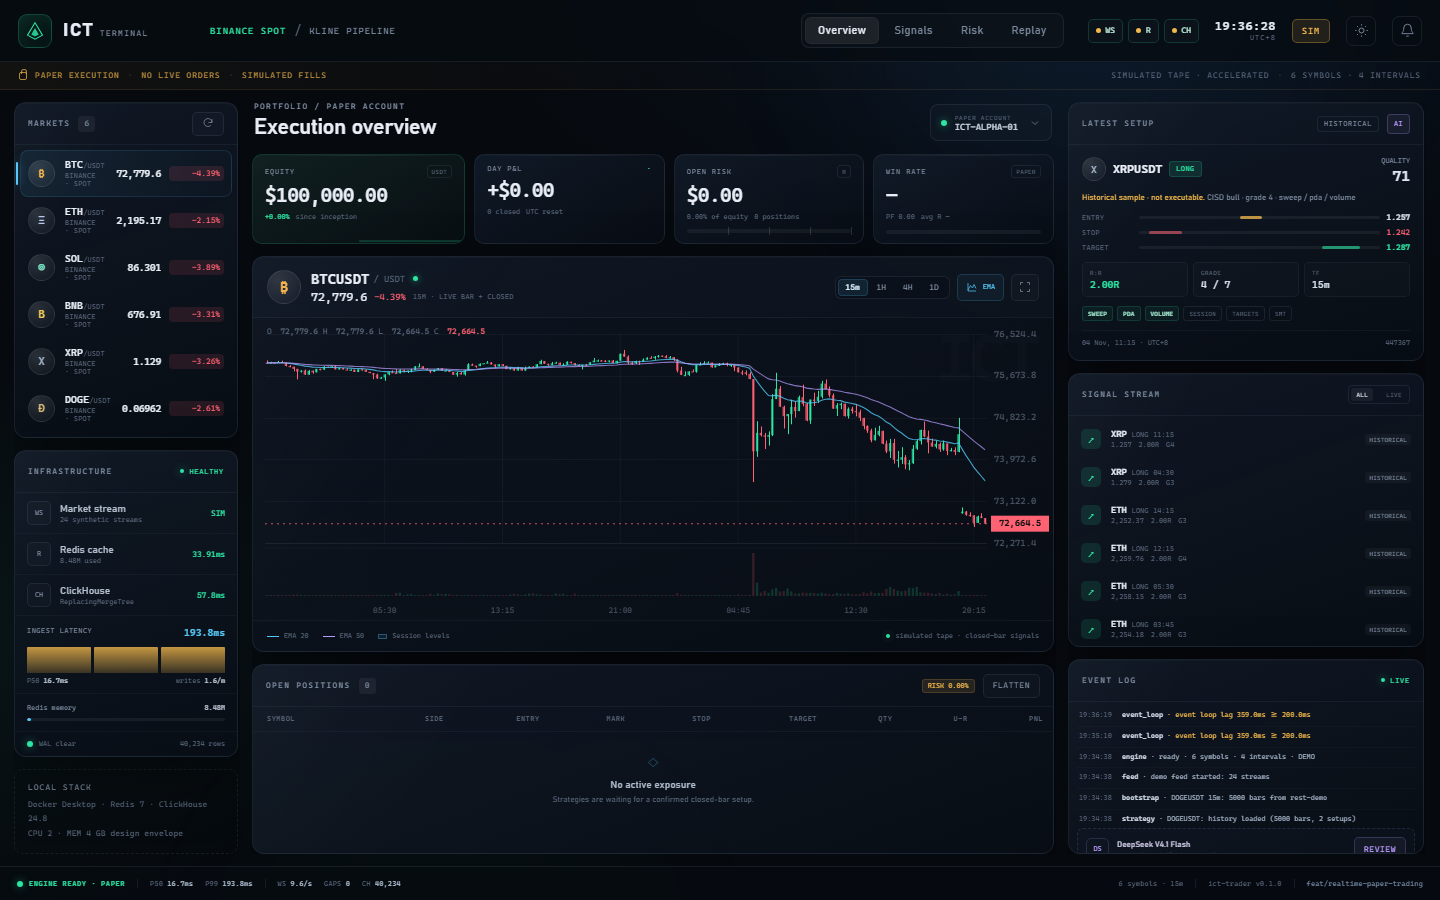
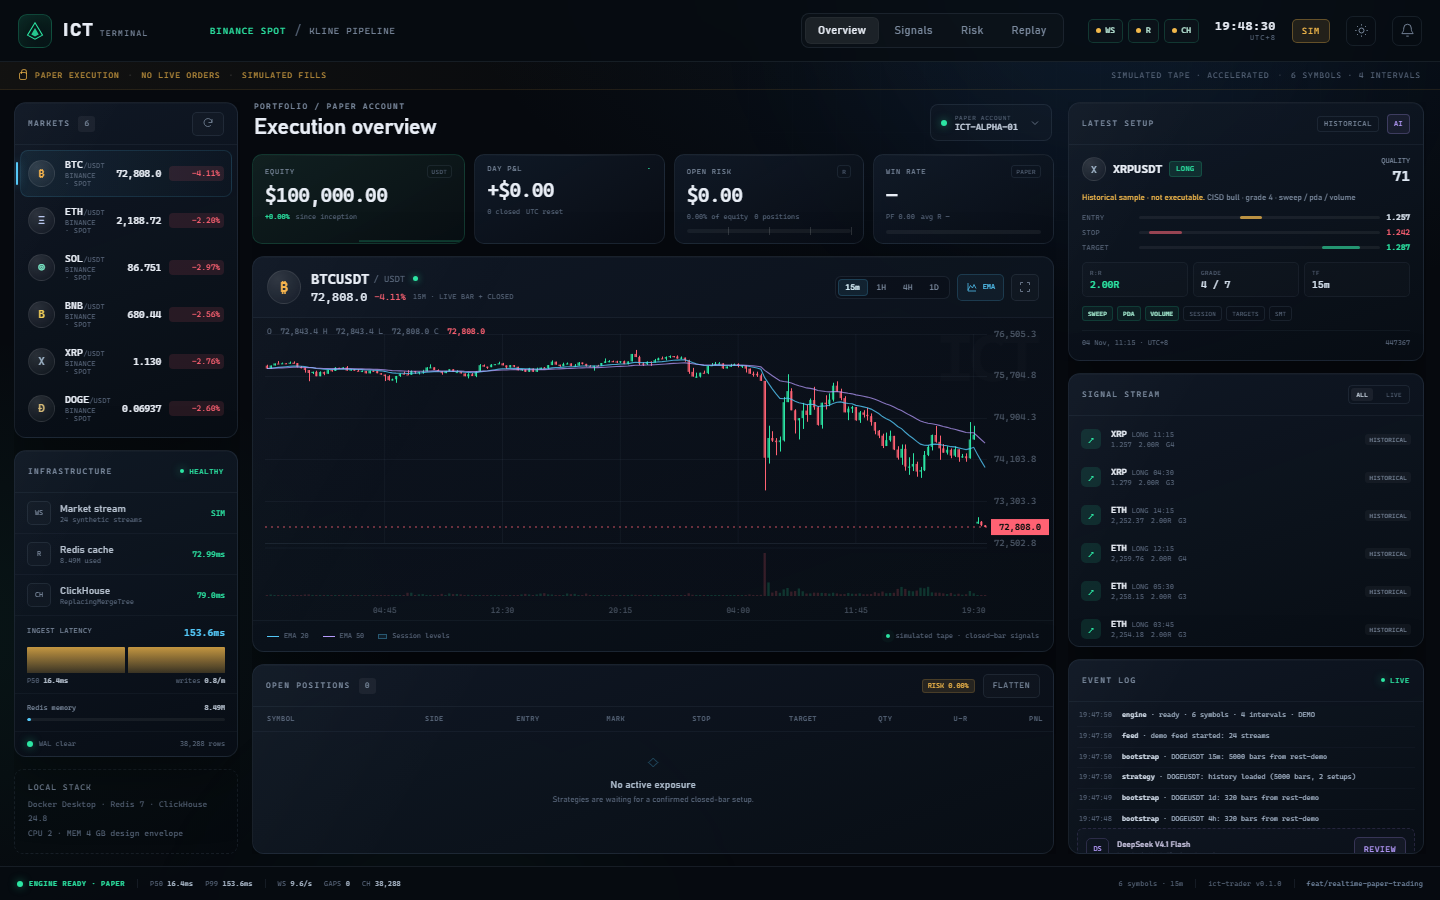
fix: unify live price across chart, watchlist and header

diff --git a/src/ict_trader/realtime/static/app.js b/src/ict_trader/realtime/static/app.js
@@ -620,7 +620,7 @@
       ? num(anchor.bar_time) + 70 * (TF_MS[S.tf] || 900000)
       : null;
     const url = `/api/klines?symbol=${encodeURIComponent(S.symbol)}&interval=${encodeURIComponent(S.tf)}&limit=220`
-      + (endTime ? `&end_time=${endTime}` : "");
+      + (endTime ? `&end_time=${endTime}` : "&include_live=true");
     try {
       const res = await fetch(url, { cache: "no-store" });
       if (!res.ok) throw new Error("HTTP " + res.status);

diff --git a/src/ict_trader/realtime/engine.py b/src/ict_trader/realtime/engine.py
@@ -580,7 +580,7 @@ class RealtimeEngine:
             "last_update": last_update,
             "strategy": self.runner.snapshot(),
             "signals": [s.to_public() for s in signals[:30]],
-            "watchlist": self.runner.watchlist(),
+            "watchlist": self.runner.watchlist(self.latest_bars),
             "live_bars": [bar.to_public() for bar in self.latest_bars.values()],
             "account": broker["account"],
             "positions": broker["positions"],
@@ -603,21 +603,40 @@ class RealtimeEngine:
         return closed
 
     async def klines(self, symbol: str, interval: str, limit: int = 240,
-                     end_time: int | None = None) -> list[dict[str, Any]]:
+                     end_time: int | None = None,
+                     include_live: bool = False) -> list[dict[str, Any]]:
         limit = max(20, min(int(limit), 2000))
         symbol = symbol.upper()
         if interval == self.settings.strategy_interval:
             rows = self.runner.public_klines(symbol, limit, end_time)
+            rows = self._with_live(symbol, interval, rows, limit, end_time, include_live)
             if rows:
                 return rows
         try:
             bars = await self.redis.get_closed(symbol, interval, limit)
             if bars:
-                return [b.to_public() for b in bars]
+                rows = [b.to_public() for b in bars]
+                return self._with_live(symbol, interval, rows, limit, end_time, include_live)
         except Exception:
             pass
         try:
             bars = await self.ch.load_recent(symbol, interval, limit)
-            return [b.to_public() for b in bars]
+            rows = [b.to_public() for b in bars]
+            return self._with_live(symbol, interval, rows, limit, end_time, include_live)
         except Exception:
             return []
+
+    def _with_live(self, symbol: str, interval: str, rows: list[dict[str, Any]],
+                   limit: int, end_time: int | None,
+                   include_live: bool) -> list[dict[str, Any]]:
+        if not include_live or end_time is not None:
+            return rows
+        live = self.latest_bars.get((symbol, interval))
+        if live is None:
+            return rows
+        if rows and int(live.open_time) == int(rows[-1]["open_time"]):
+            rows[-1] = live.to_public()
+        elif not rows or int(live.open_time) > int(rows[-1]["open_time"]):
+            rows.append(live.to_public())
+            rows = rows[-limit:]
+        return rows

diff --git a/src/ict_trader/realtime/strategy_runner.py b/src/ict_trader/realtime/strategy_runner.py
@@ -354,17 +354,31 @@ class ICTStrategyRunner:
         bars = self.frame(symbol, limit, end_time)
         return [b.to_public() for b in bars]
 
-    def watchlist(self) -> list[dict[str, Any]]:
+    def watchlist(self, latest_bars: dict[tuple[str, str], Kline] | None = None) -> list[dict[str, Any]]:
+        """Return 24h context using the latest *live* 15m bar when available.
+
+        The chart already merges the unclosed bar; the watchlist and header must
+        use the same price source or the dashboard shows the previous close as
+        the "current" price.
+        """
         step = interval_ms(self.interval)
         day_bars = max(2, int(86_400_000 / step))
+        latest_bars = latest_bars or {}
         out = []
         for symbol in self.settings.symbols:
             bars = self.histories.get(symbol)
-            if not bars:
+            live = latest_bars.get((symbol, self.interval))
+            if not bars and live is None:
                 out.append({"symbol": symbol, "price": 0.0, "change_pct": 0.0,
-                            "spark": [], "high": 0.0, "low": 0.0})
+                            "spark": [], "high": 0.0, "low": 0.0, "is_live": False})
                 continue
-            arr = np.fromiter((b.close for b in bars), dtype=float)
+            closes = [b.close for b in bars] if bars else []
+            if live is not None:
+                if closes and live.open_time == bars[-1].open_time:
+                    closes[-1] = live.close
+                elif not closes or live.open_time > bars[-1].open_time:
+                    closes.append(live.close)
+            arr = np.asarray(closes, dtype=float)
             window = arr[-min(len(arr), day_bars):]
             change = (arr[-1] / arr[-len(window)] - 1.0) * 100.0 if len(window) > 1 and arr[-len(window)] else 0.0
             spark = arr[-64:].round(8).tolist()
@@ -375,6 +389,8 @@ class ICTStrategyRunner:
                 "spark": spark,
                 "high": round(float(window.max()), 8),
                 "low": round(float(window.min()), 8),
+                "is_live": bool(live is not None and not live.is_closed),
+                "live_time": int(live.open_time) if live is not None else None,
             })
         return out
 

diff --git a/src/ict_trader/realtime/api.py b/src/ict_trader/realtime/api.py
@@ -193,12 +193,13 @@ def create_app(engine: RealtimeEngine) -> FastAPI:
         interval: str | None = Query(None),
         limit: int = Query(240, ge=20, le=2000),
         end_time: int | None = Query(None, ge=0),
+        include_live: bool = Query(False),
     ) -> JSONResponse:
         iv = interval or engine.settings.strategy_interval
-        rows = await engine.klines(symbol, iv, limit, end_time)
+        rows = await engine.klines(symbol, iv, limit, end_time, include_live)
         return JSONResponse({
             "symbol": symbol.upper(), "interval": iv,
-            "end_time": end_time, "bars": rows,
+            "end_time": end_time, "include_live": include_live, "bars": rows,
         })
 
     @app.websocket("/ws")

diff --git a/tests/test_realtime_runner_adapter.py b/tests/test_realtime_runner_adapter.py
@@ -57,3 +57,12 @@ def test_runner_maps_engine_signal_to_trade_signal(tmp_path, monkeypatch):
     window = runner.frame("BTCUSDT", 240, end_time=last.open_time + 70 * 900_000)
     assert any(int(b.open_time) == signal.bar_time for b in window)
     assert window[-1].open_time == last.open_time
+
+    live = Kline(
+        symbol="BTCUSDT", interval="15m", open_time=last.open_time + 900_000,
+        close_time=last.close_time + 900_000, open=100.0, high=104.0,
+        low=99.0, close=103.25, volume=12.0, is_closed=False,
+    )
+    rows = runner.watchlist({("BTCUSDT", "15m"): live})
+    assert rows[0]["price"] == 103.25
+    assert rows[0]["is_live"] is True

diff --git a/tests/test_realtime_api.py b/tests/test_realtime_api.py
@@ -61,7 +61,7 @@ class FakeEngine:
     async def stop(self):
         self.phase = "stopped"
 
-    async def klines(self, symbol, interval, limit, end_time=None):
+    async def klines(self, symbol, interval, limit, end_time=None, include_live=False):
         now = self.runner.signal.bar_time
         return [Kline(symbol=symbol, interval=interval, open_time=now, close_time=now + 899999,
                       open=1, high=2, low=0.5, close=1.5, volume=10, is_closed=True).to_public()]

diff --git a/docs/REALTIME.md b/docs/REALTIME.md
@@ -82,8 +82,9 @@ Ports 6379/8123/9000 are bound to `127.0.0.1`; do not expose them publicly.
 | Binance WS ingestion | per venue message | Combined streams; 15m updates are typically every 1–2s near the live edge |
 | Redis latest hash | every WS update | unclosed bar is mutable |
 | Engine → browser snapshot | 1 Hz (`BROADCAST_SECONDS=1`) | includes `live_bars` for every stream |
-| Chart last candle | 1 Hz via WS snapshot | merged client-side; no chart polling required |
+| Chart last candle | 1 Hz via WS snapshot | merged client-side; `/api/klines?include_live=true` also returns it |
 | Historical chart refresh | 60s / symbol change | closed-bar backfill/repair |
+| Watchlist / header price | 1 Hz | uses the same live 15m bar as the chart, not the previous close |
 | Strategy indicators | once per **closed 15m strategy bar**, per symbol | no intrabar signals; `signal_latency_ms` measures close→decision |
 | Paper entry | immediately after a closed-bar signal | next-tick/next-open semantics |
 | Paper TP/SL exits | every WS price tick | stop/target checked on live marks |
@@ -237,8 +238,10 @@ GET /api/signals/{signal_id}/context
 ```
 
 `/api/klines` also accepts `end_time` so the dashboard can load the window
-around a historical signal. Clicking a signal opens its source window, marks
-the exact bar with a vertical `SIG` line, and draws the signal's entry/SL/TP.
+around a historical signal, and `include_live=true` appends the current unclosed
+bar. The watchlist, header price and chart last bar all use this same live
+source. Clicking a signal opens its source window, marks the exact bar with a
+vertical `SIG` line, and draws the signal's entry/SL/TP.
 A shareable URL is available:
 
 ```text

diff --git a/README.md b/README.md
@@ -60,9 +60,10 @@ and the exact signal marker. `/api/signals/{id}/context` returns
 `aligned=true/false` plus the source bar.
 
 The terminal has persisted dark/light themes (`?theme=light` for a preview).
-The chart's last candle is merged from the 1 Hz WebSocket snapshot; historical
-bars are refreshed only every 60 seconds, so live price updates do not depend on
-a polling chart request.
+The chart's last candle, watchlist and header price all use the same live bar:
+it is merged from the 1 Hz WebSocket snapshot and can also be fetched with
+`/api/klines?include_live=true`. Historical bars are refreshed only every 60
+seconds, so live price updates do not depend on a polling chart request.
 
 Project-level agent instructions and the phased backlog live in
 [`docs/PROJECT_PROMPT.md`](docs/PROJECT_PROMPT.md) and
